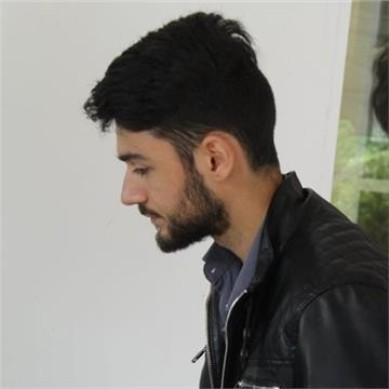
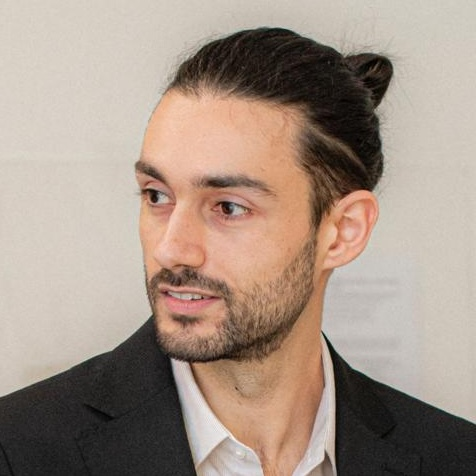
role update

diff --git a/content/authors/federico-di-menna/_index.md b/content/authors/federico-di-menna/_index.md
@@ -6,7 +6,7 @@ title: Federico Di Menna
 superuser: false
 
 # Role/position
-role: PhD Student
+role: Postdoctoral Researcher
 
 # Organizations/Affiliations
 organizations:
@@ -14,7 +14,7 @@ organizations:
   url: "https://disim.univaq.it"
 
 # Short bio (displayed in user profile at end of posts)
-bio: My research interests include AIOps for performance engineering.
+bio: My research interests include AI for software performance engineering.
 
 interests:
 - Performance analysis
@@ -23,6 +23,9 @@ interests:
 
 education:
   courses:
+  - course: Ph.D. in Information and Communication Technology
+    institution: University of L'Aquila
+    year: 2026
   - course: M.Sc. in Computer Science
     institution: University of L'Aquila
     year: 2022
@@ -64,8 +67,8 @@ highlight_name: false
 user_groups:
 - Team
 ---
-Federico Di Menna is an industrial PhD Student at the University of L'Aquila, Italy.
+Federico Di Menna is an Postdoctoral Researcher at the University of L'Aquila, Italy. He received his Ph.D. in ICT from the University of L'Aquila in 2026.
 
-His primary research focus centers on the domains of AIOps (Artificial Intelligence for Operations) applied to Performance Engineering and data-driven monitoring for industrial processes, aiming to advance performance and quality assurance techniques for software-hardware systems. He is committed to collaborating with industry professionals to ensure the practical applicability and real-world impact of research findings.
+His primary research focus centers on the domains of AIOps (Artificial Intelligence for Operations) applied to Software Performance Engineering and data-driven monitoring for industrial processes, aiming to advance performance and quality assurance techniques for software-hardware systems. He is committed to collaborating with industry professionals to ensure the practical applicability and real-world impact of research findings.
 
 He is a member of the <a href="https://spencerlab-uaq.github.io" target="_blank">SPENCER</a> research group.